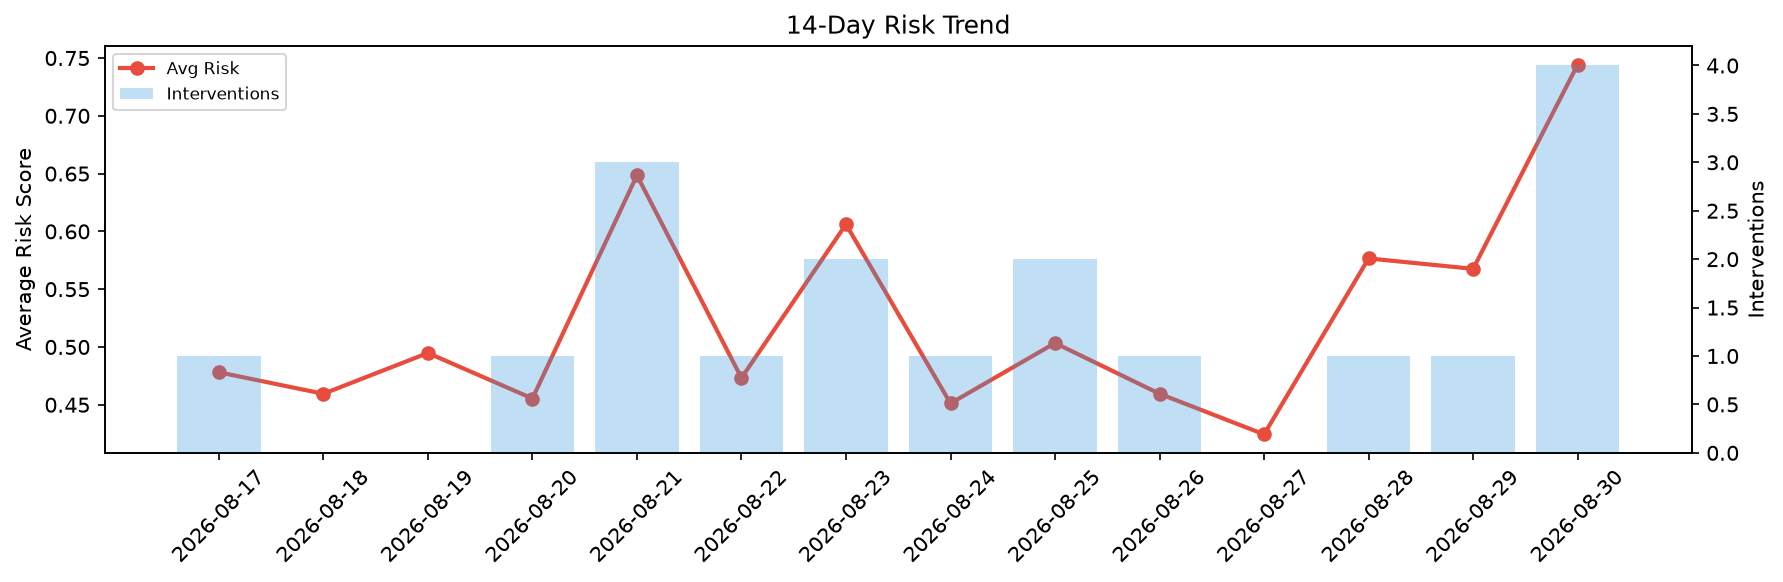
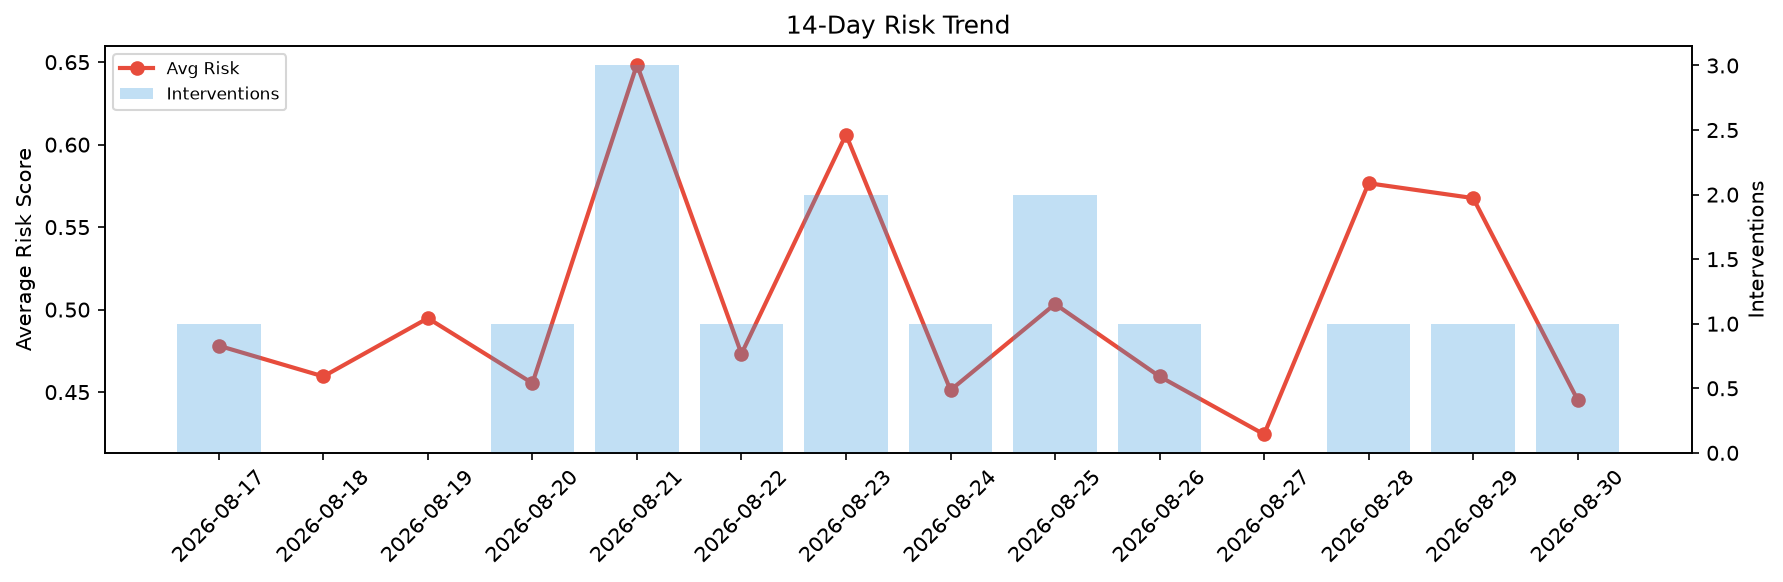
agent-improvement: daily cycle 2026-08-30T13:47

diff --git a/logs/2026-08-30.md b/logs/2026-08-30.md
@@ -1,6 +1,6 @@
 # Agent Improvement Report — 2026-08-30
 
-**Cycle ID:** `797aa5b8` | **Avg Risk:** 0.7443 | **Interventions:** 4/4
+**Cycle ID:** `413d331e` | **Avg Risk:** 0.4453 | **Interventions:** 1/4
 
 ![Dashboard](2026-08-30_dashboard.png)
 
@@ -10,18 +10,18 @@
 
 | Domain | Risk Score | Decision | Alerts |
 |--------|-----------|----------|--------|
-| code_review | 0.781 | intervene | duplication, coverage |
-| incident_response | 0.6683 | intervene | severity, blast_radius |
-| data_pipeline | 0.6155 | intervene | schema_drift |
-| deployment | 0.9124 | intervene | rollback_rate, canary_error, latency_p99 |
+| code_review | 0.6737 | intervene | duplication, coverage |
+| incident_response | 0.4253 | monitor | blast_radius |
+| data_pipeline | 0.252 | monitor | none |
+| deployment | 0.4303 | monitor | latency_p99 |
 
 ## Delta vs Yesterday
 
 | Domain | Today | Yesterday | Change |
 |--------|-------|-----------|--------|
-| code_review | 0.781 | 0.5603 | 📈 39.4% |
-| incident_response | 0.6683 | 0.7049 | 📉 -5.2% |
-| data_pipeline | 0.6155 | 0.536 | 📈 14.8% |
-| deployment | 0.9124 | 0.4693 | 📈 94.4% |
+| code_review | 0.6737 | 0.5603 | 📈 20.2% |
+| incident_response | 0.4253 | 0.7049 | 📉 -39.7% |
+| data_pipeline | 0.252 | 0.536 | 📉 -53.0% |
+| deployment | 0.4303 | 0.4693 | 📉 -8.3% |
 
-**Refinement:** `{'adjustment': 'tighten_thresholds', 'trend': 'degrading', 'window': 4}`
+**Refinement:** `{'adjustment': 'maintain', 'trend': 'improving', 'window': 4}`
